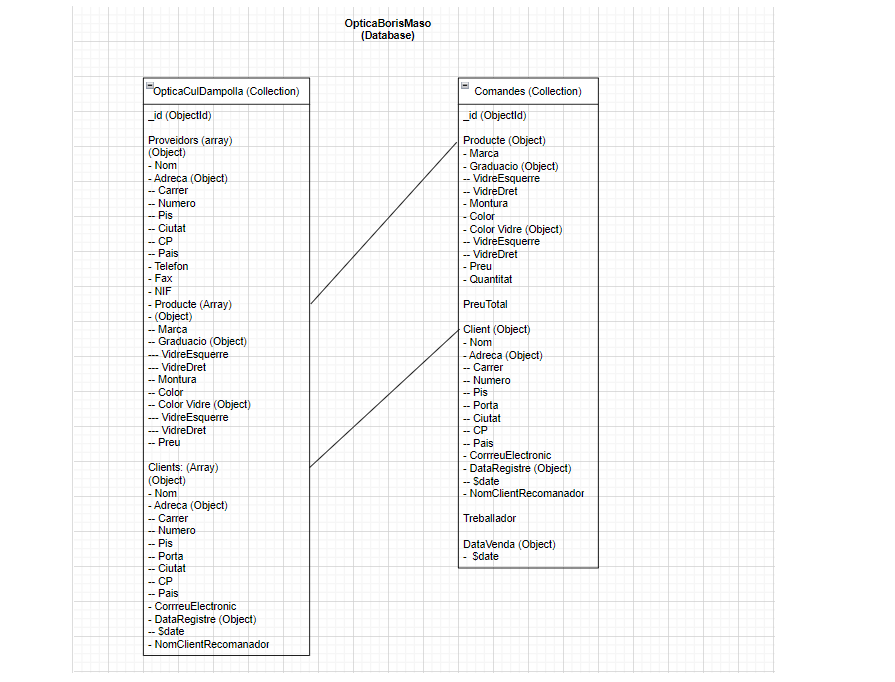
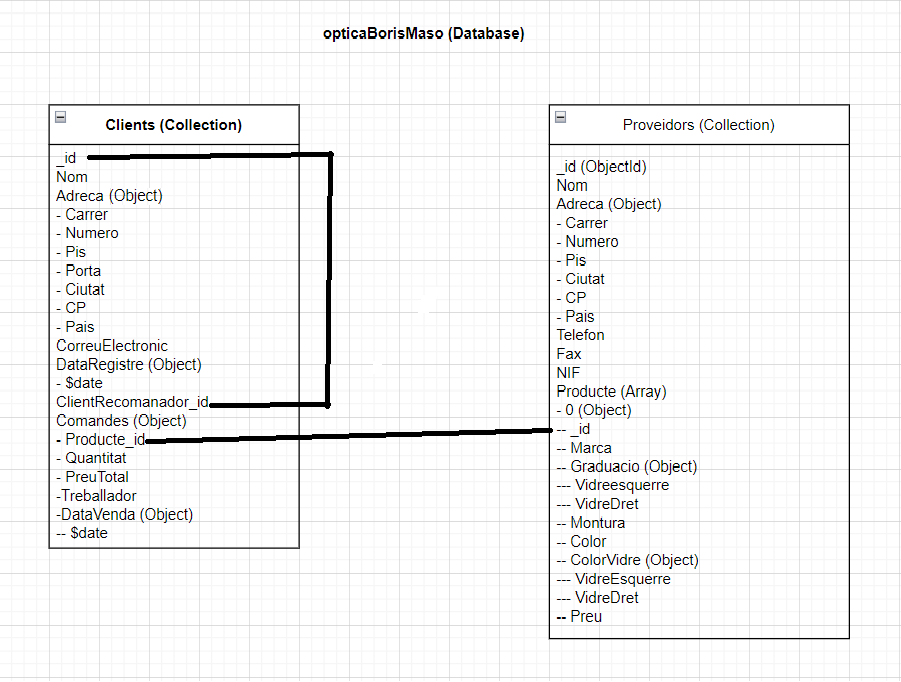
Entrega2.3 diagrames nivell 1

diff --git a/Entrega2.3_MongodbEstructura_BorisMaso/Entrega2.3_Optica_BorisMaso.js b/Entrega2.3_MongodbEstructura_BorisMaso/Entrega2.3_Optica_BorisMaso.js
@@ -99,6 +99,7 @@ db.Proveidors.insertOne(
 );
 db.Clients.insertOne(
     {
+        "_id": "1",
         "Nom": "Roberto Fuentes Amigo",
         "Adreca": {
             "Carrer": "Vallverde",
@@ -111,7 +112,7 @@ db.Clients.insertOne(
         },
         "CorreuElectronic": "robofont@hotmail.com",
         "DataRegistre": {"$date": "2022-10-22"},
-        "NomClientRecomendador": "",
+        "ClientRecomendador_id": "",
         "Comandes": {
             "Producte_id": "1",
             "Quantitat": "1",
@@ -123,6 +124,7 @@ db.Clients.insertOne(
 );
 db.Clients.insertOne(
     {
+        "_id": "2",
         "Nom": "Paula Miro Albino",
         "Adreca": {
             "Carrer": "Rocagran",
@@ -135,7 +137,7 @@ db.Clients.insertOne(
         },
         "CorreuElectronic": "plmr@gmail.com",
         "DataRegistre": {"$date": "2022-11-16"},
-        "NomClientRecomendador": "Roberto Fuentes Amigo",
+        "ClientRecomendador_id": "1",
         "Comandes": {
             "Producte_id": "3",
             "Quantitat": "1",
